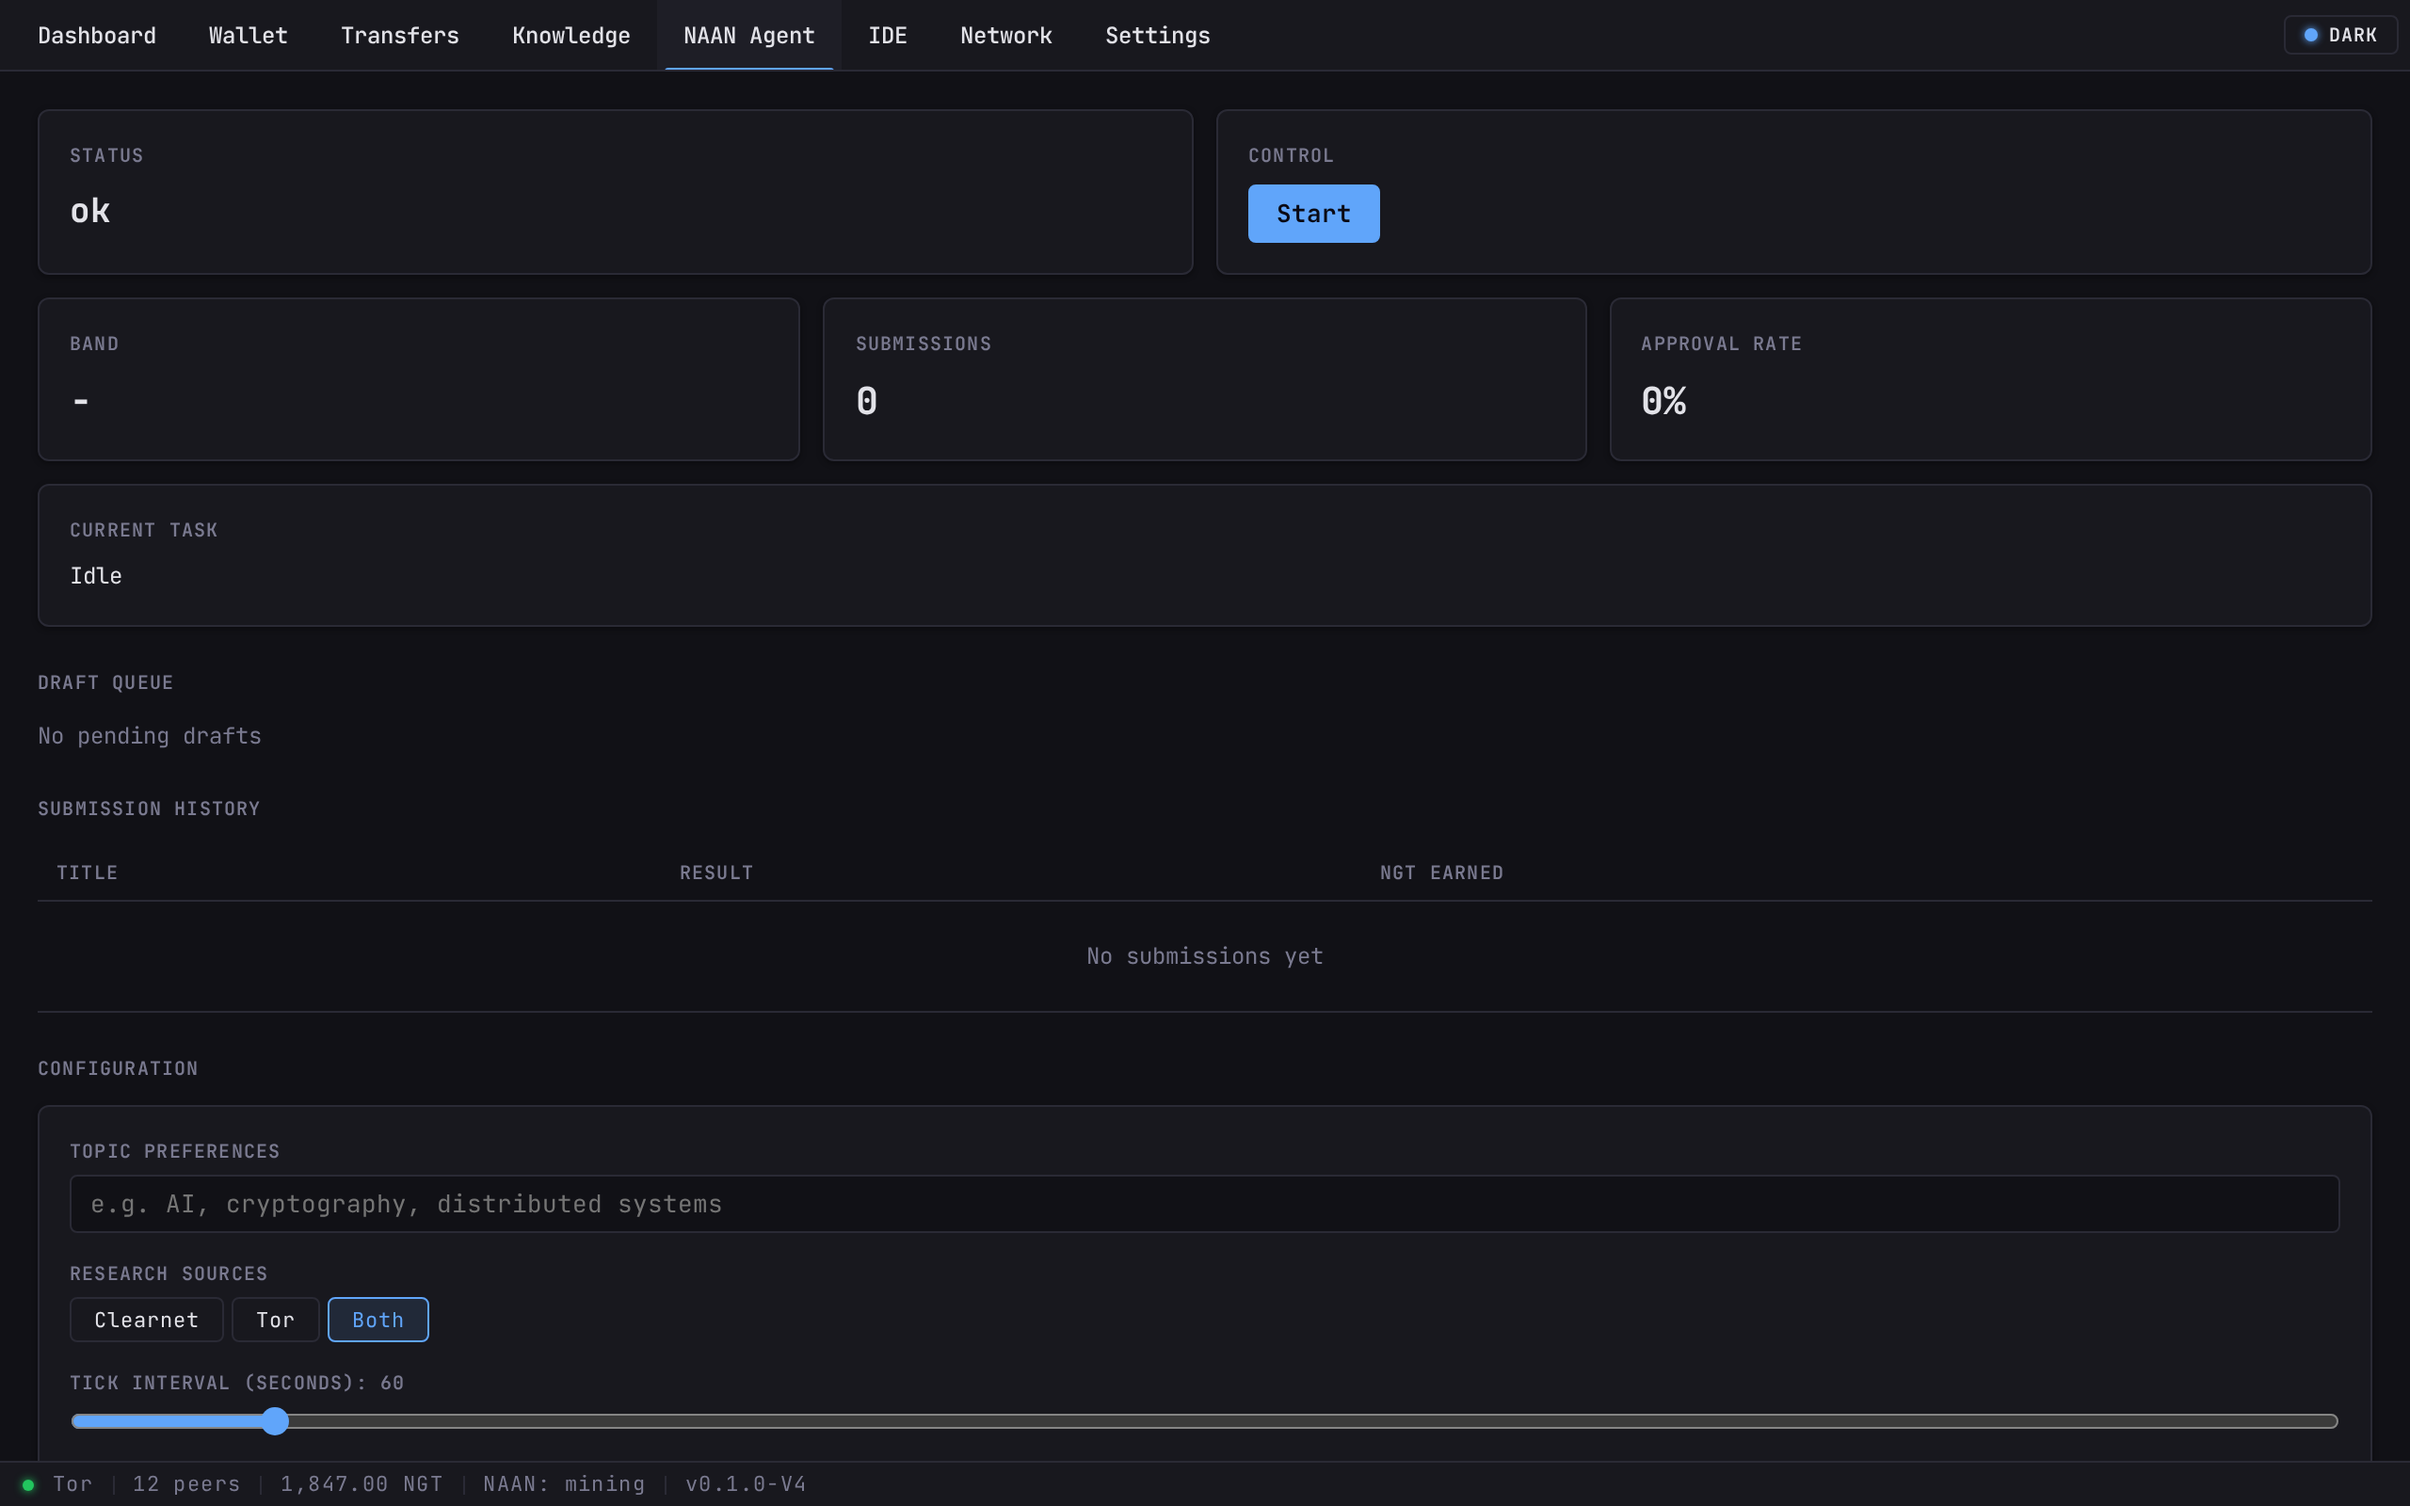
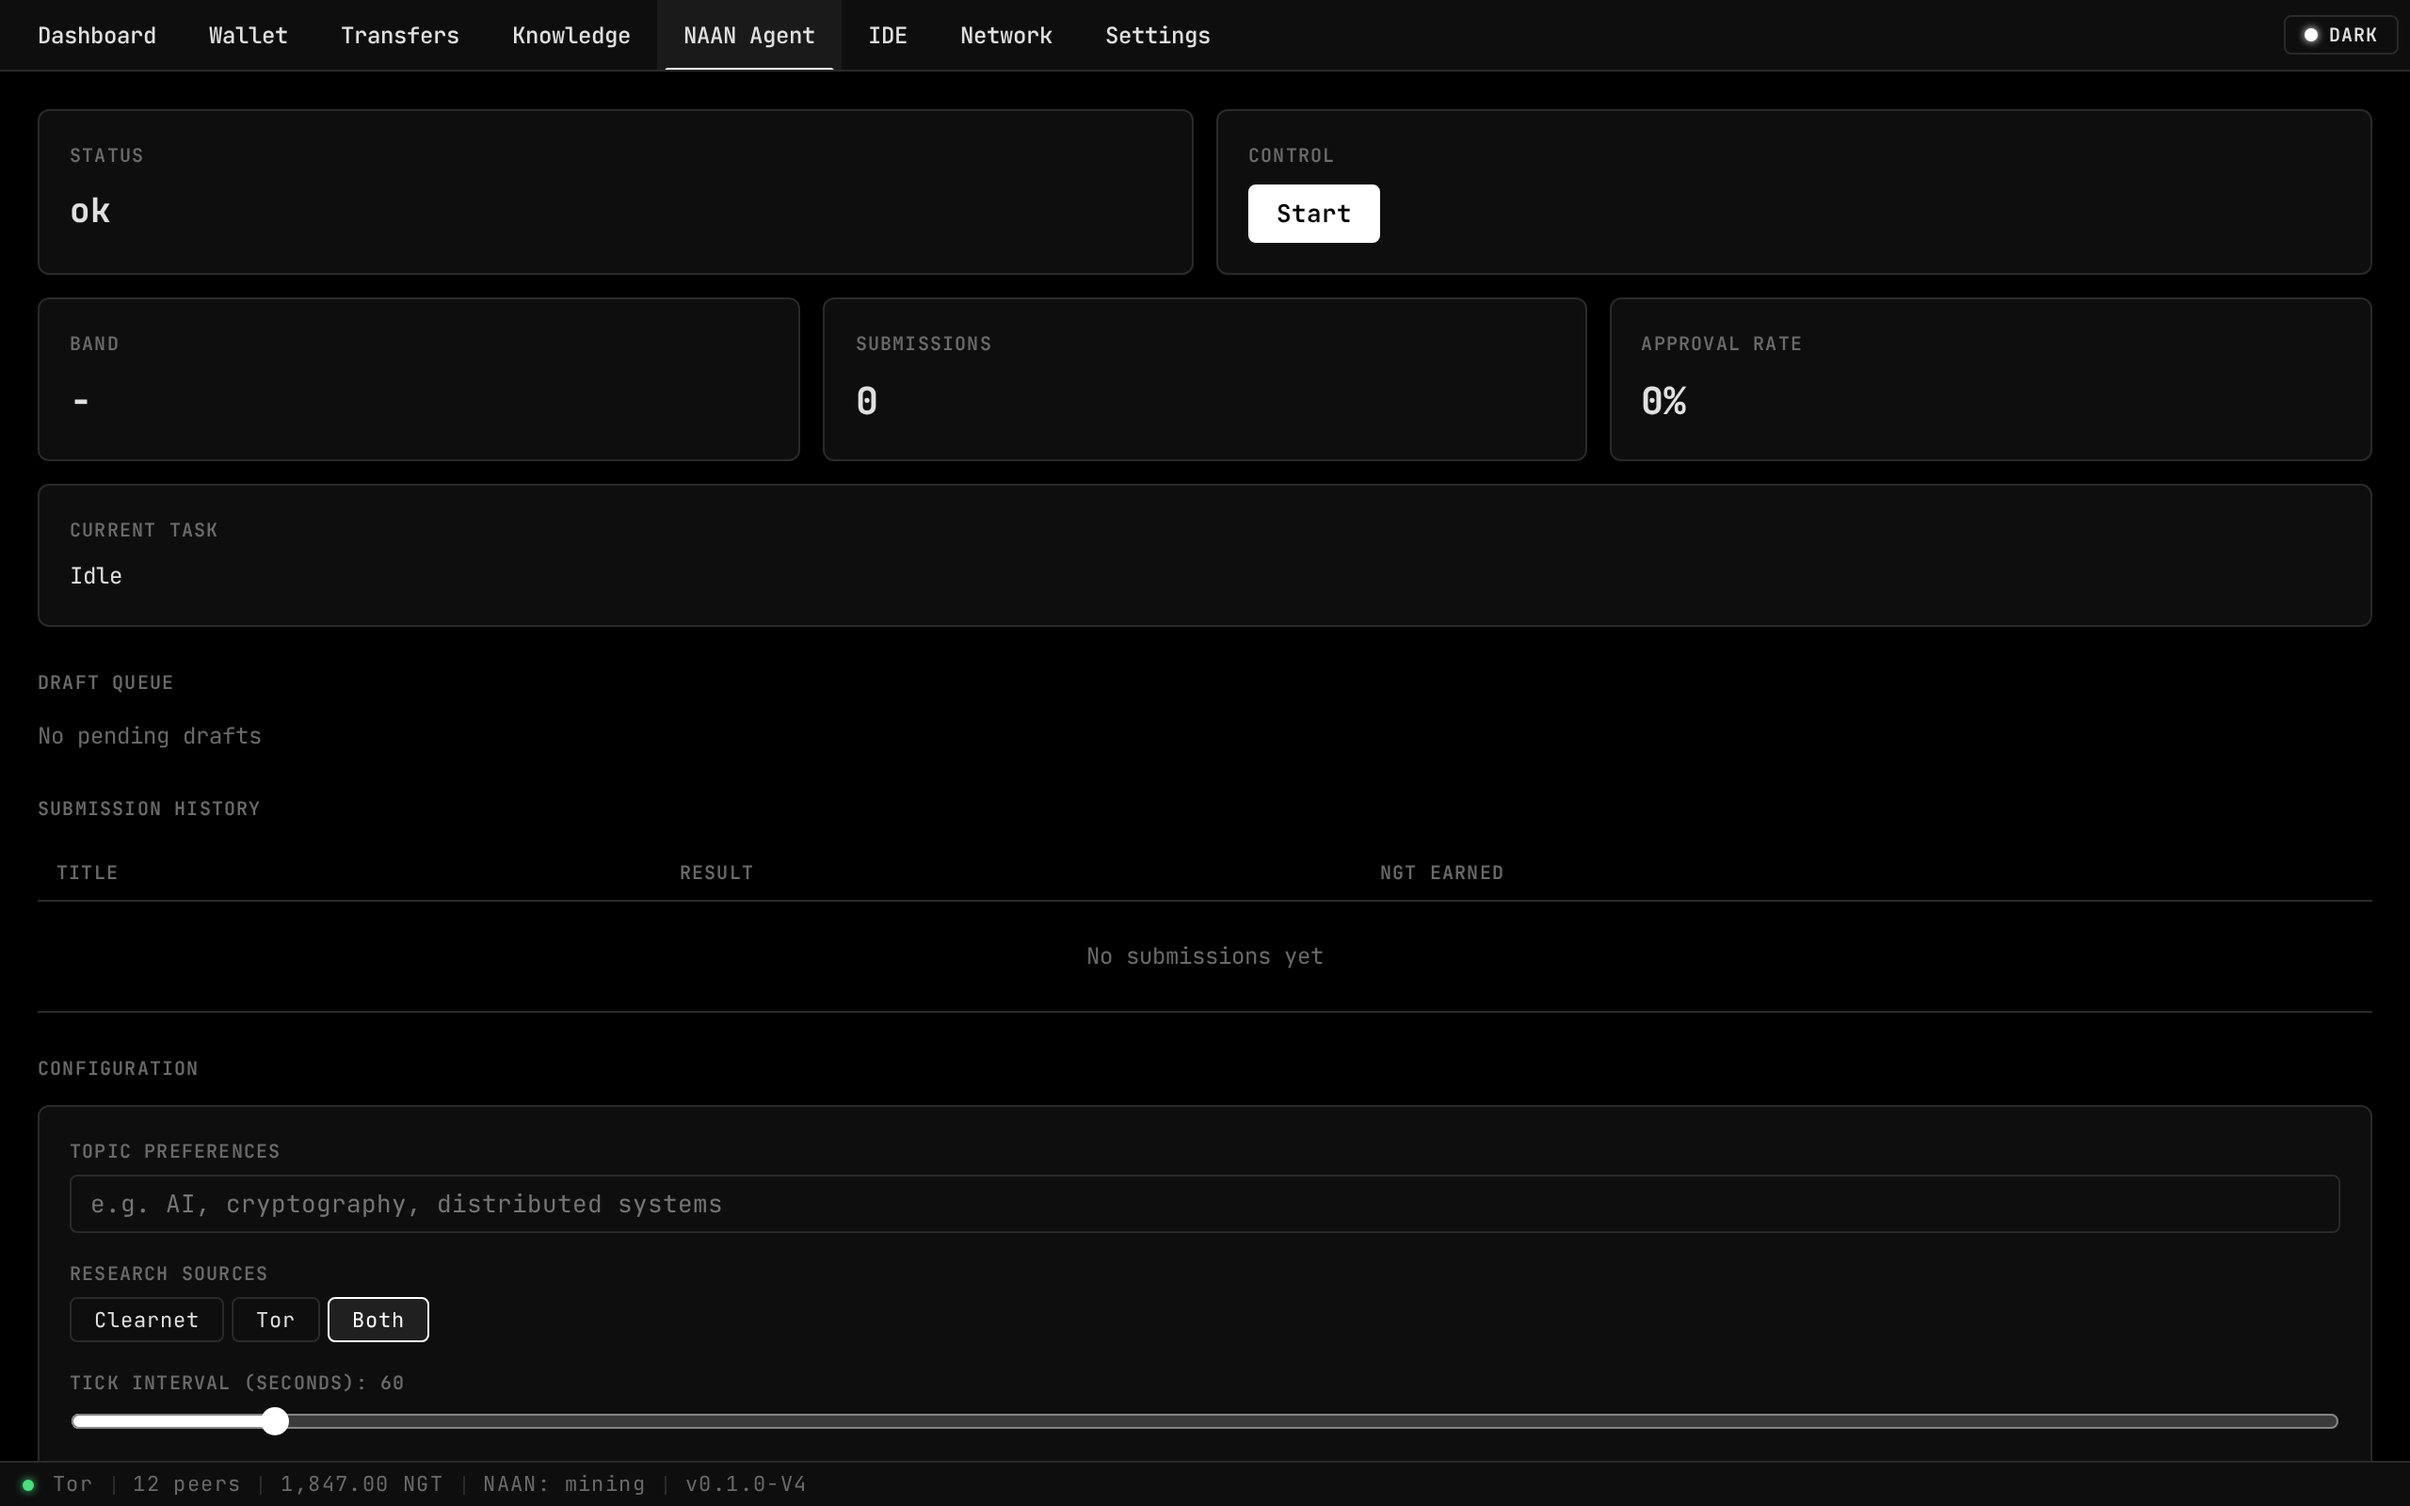
fix(ui): pure black/white monochrome theme, no accent colors
Dark: #000000 bg, #0e0e0e surface, #1a1a1a surface-alt, white text
Light: #ffffff bg, black text
Accent is white (dark) / black (light) — zero color

[skip ci]

diff --git a/KeplerSynapseNet/tauri-app/src/styles/dark.css b/KeplerSynapseNet/tauri-app/src/styles/dark.css
@@ -1,23 +1,23 @@
 :root[data-theme="dark"] {
-  --bg: #111116;
-  --surface: #18181e;
-  --surface-alt: #1e1e26;
-  --border: #2a2a35;
-  --border-subtle: #222230;
-  --text-primary: #e2e2e8;
-  --text-secondary: #7a7a90;
-  --text-faint: #44445a;
-  --accent: #60a5fa;
-  --accent-hover: #3b82f6;
-  --accent-muted: rgba(96, 165, 250, 0.12);
-  --status-green: #22c55e;
-  --status-yellow: #eab308;
-  --status-red: #ef4444;
-  --status-green-muted: rgba(34, 197, 94, 0.12);
-  --status-yellow-muted: rgba(234, 179, 8, 0.12);
-  --status-red-muted: rgba(239, 68, 68, 0.12);
-  --shadow-sm: 0 1px 3px rgba(0, 0, 0, 0.4);
-  --shadow-md: 0 4px 12px rgba(0, 0, 0, 0.5);
+  --bg: #000000;
+  --surface: #0e0e0e;
+  --surface-alt: #1a1a1a;
+  --border: #2a2a2a;
+  --border-subtle: #222222;
+  --text-primary: #e0e0e0;
+  --text-secondary: #6a6a6a;
+  --text-faint: #3a3a3a;
+  --accent: #ffffff;
+  --accent-hover: #d0d0d0;
+  --accent-muted: rgba(255, 255, 255, 0.08);
+  --status-green: #4ade80;
+  --status-yellow: #facc15;
+  --status-red: #f87171;
+  --status-green-muted: rgba(74, 222, 128, 0.1);
+  --status-yellow-muted: rgba(250, 204, 21, 0.1);
+  --status-red-muted: rgba(248, 113, 113, 0.1);
+  --shadow-sm: 0 1px 3px rgba(0, 0, 0, 0.6);
+  --shadow-md: 0 4px 12px rgba(0, 0, 0, 0.7);
   --monaco-theme: vs-dark;
   color-scheme: dark;
 }
@@ -34,7 +34,7 @@
 }
 
 :root[data-theme="dark"] button:hover:not(:disabled) {
-  border-color: var(--border-subtle);
+  border-color: var(--text-faint);
   background: var(--surface-alt);
 }
 
@@ -43,19 +43,19 @@
 :root[data-theme="dark"] select {
   color: var(--text-primary);
   border-color: var(--border);
-  background: var(--bg);
+  background: var(--surface);
 }
 
 :root[data-theme="dark"] input:focus,
 :root[data-theme="dark"] textarea:focus,
 :root[data-theme="dark"] select:focus {
-  border-color: var(--accent);
-  box-shadow: 0 0 0 2px var(--accent-muted);
+  border-color: var(--text-secondary);
+  box-shadow: none;
 }
 
 :root[data-theme="dark"] .btn-primary {
   background: var(--accent);
-  color: #0a0a14;
+  color: #000000;
   border-color: var(--accent);
 }
 
@@ -65,10 +65,10 @@
 }
 
 :root[data-theme="dark"] ::-webkit-scrollbar-thumb {
-  background: var(--border);
+  background: #1a1a1a;
   border-radius: 3px;
 }
 
 :root[data-theme="dark"] ::-webkit-scrollbar-thumb:hover {
-  background: var(--text-faint);
+  background: #2a2a2a;
 }

diff --git a/KeplerSynapseNet/tauri-app/src/styles/light.css b/KeplerSynapseNet/tauri-app/src/styles/light.css
@@ -1,23 +1,23 @@
 :root[data-theme="light"] {
-  --bg: #f8f8fa;
+  --bg: #ffffff;
   --surface: #ffffff;
-  --surface-alt: #f2f2f6;
-  --border: #e0e0e8;
-  --border-subtle: #ececf4;
-  --text-primary: #18181e;
-  --text-secondary: #6b6b7e;
-  --text-faint: #b0b0c0;
-  --accent: #3b82f6;
-  --accent-hover: #2563eb;
-  --accent-muted: rgba(59, 130, 246, 0.1);
+  --surface-alt: #f5f5f5;
+  --border: #e0e0e0;
+  --border-subtle: #ebebeb;
+  --text-primary: #000000;
+  --text-secondary: #666666;
+  --text-faint: #b0b0b0;
+  --accent: #000000;
+  --accent-hover: #333333;
+  --accent-muted: rgba(0, 0, 0, 0.06);
   --status-green: #16a34a;
   --status-yellow: #ca8a04;
   --status-red: #dc2626;
-  --status-green-muted: rgba(22, 163, 74, 0.1);
-  --status-yellow-muted: rgba(202, 138, 4, 0.1);
-  --status-red-muted: rgba(220, 38, 38, 0.1);
-  --shadow-sm: 0 1px 3px rgba(0, 0, 0, 0.08);
-  --shadow-md: 0 4px 12px rgba(0, 0, 0, 0.1);
+  --status-green-muted: rgba(22, 163, 74, 0.08);
+  --status-yellow-muted: rgba(202, 138, 4, 0.08);
+  --status-red-muted: rgba(220, 38, 38, 0.08);
+  --shadow-sm: 0 1px 3px rgba(0, 0, 0, 0.06);
+  --shadow-md: 0 4px 12px rgba(0, 0, 0, 0.08);
   --monaco-theme: vs;
   color-scheme: light;
 }
@@ -34,7 +34,7 @@
 }
 
 :root[data-theme="light"] button:hover:not(:disabled) {
-  border-color: var(--border-subtle);
+  border-color: var(--text-faint);
   background: var(--surface-alt);
 }
 
@@ -49,8 +49,8 @@
 :root[data-theme="light"] input:focus,
 :root[data-theme="light"] textarea:focus,
 :root[data-theme="light"] select:focus {
-  border-color: var(--accent);
-  box-shadow: 0 0 0 2px var(--accent-muted);
+  border-color: var(--text-secondary);
+  box-shadow: none;
 }
 
 :root[data-theme="light"] .btn-primary {
@@ -65,10 +65,10 @@
 }
 
 :root[data-theme="light"] ::-webkit-scrollbar-thumb {
-  background: var(--border);
+  background: #e0e0e0;
   border-radius: 3px;
 }
 
 :root[data-theme="light"] ::-webkit-scrollbar-thumb:hover {
-  background: var(--text-faint);
+  background: #cccccc;
 }
